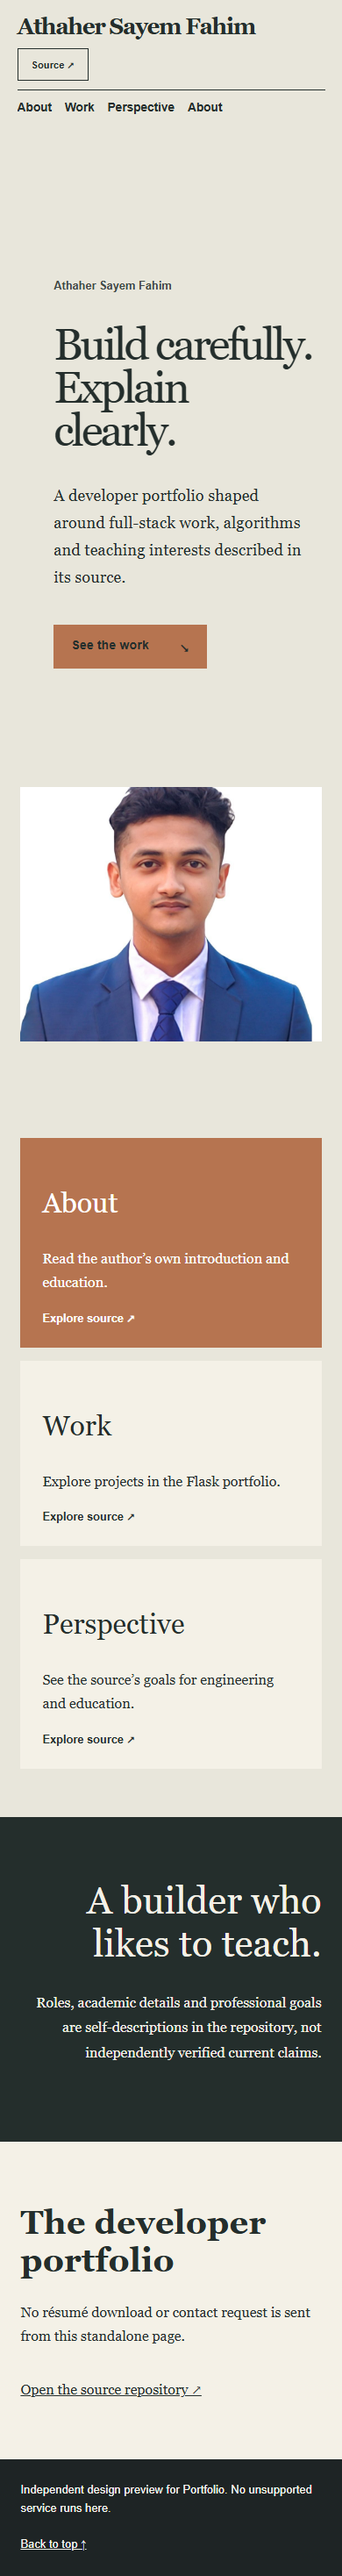
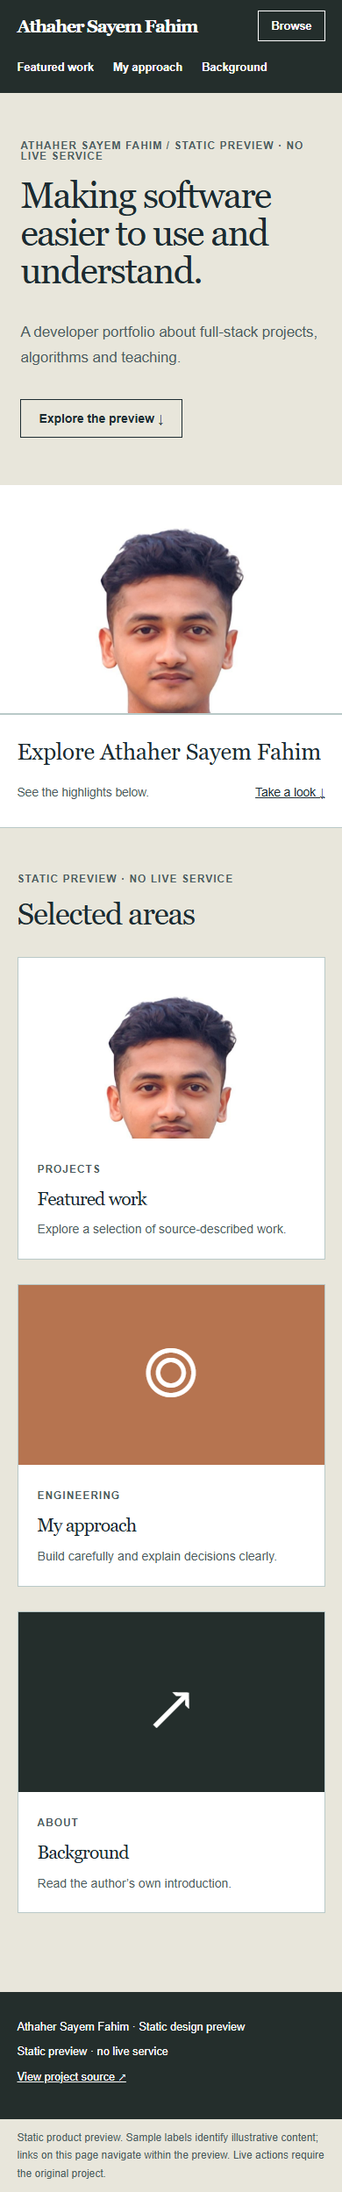
feat: show product-first static homepage preview

diff --git a/showcase-design/product.css b/showcase-design/product.css
@@ -1,0 +1,27 @@
+:root{--p-bg:#e8e6db;--p-ink:#1c2b31;--p-accent:#b67450;--p-card:#ffffff;--p-muted:#4c5c61;--p-border:#b9c9c8;--p-head:#242e2c;--p-head-ink:#ffffff;}
+
+/* Product-first preview. Preserve the original design's palette and assets. */
+body.product-page{background:var(--p-bg);color:var(--p-ink);font-family:Arial,'Segoe UI',sans-serif;line-height:1.5;margin:0}
+.product-page *{box-sizing:border-box}.product-page a{color:inherit}.product-page a:focus-visible{outline:3px solid var(--p-accent);outline-offset:4px}.product-page h1,.product-page h2,.product-page h3{overflow-wrap:anywhere;letter-spacing:-.035em}.product-page p{max-width:68ch}
+.p-skip{position:absolute;top:-90px;left:12px;background:var(--p-card);padding:10px;z-index:10}.p-skip:focus{top:10px}
+.p-nav{min-height:76px;display:flex;align-items:center;gap:24px;padding:12px 5%;background:var(--p-head);color:var(--p-head-ink)}
+.p-brand{text-decoration:none;font:bold clamp(1.25rem,2vw,1.9rem)/1.1 Georgia,serif;letter-spacing:-.06em;flex:0 0 auto}
+.p-nav nav{display:flex;gap:22px;margin-left:auto;overflow-x:auto;scrollbar-width:thin}.p-nav nav a,.p-nav-extra{font:600 .8rem Arial,sans-serif;text-decoration:none;white-space:nowrap}.p-nav nav a:hover,.p-nav-extra:hover{text-decoration:underline;text-underline-offset:4px}.p-nav-extra{border:1px solid currentColor;padding:9px 14px}
+.p-heading{display:grid;grid-template-columns:1.2fr .8fr;min-height:470px;align-items:stretch;border-bottom:1px solid var(--p-border)}.p-copy{padding:72px 7% 64px 9%;display:flex;flex-direction:column;justify-content:center}.p-overline,.p-item small,.p-section-title small,.p-work-head small,.p-newspaper .p-edition{font:700 .72rem Arial,sans-serif;text-transform:uppercase;letter-spacing:.11em;color:var(--p-muted)}
+.p-heading h1{font:normal clamp(3rem,5vw,5.6rem)/1.03 Georgia,serif;margin:18px 0}.p-copy>p{font-size:1.05rem;color:var(--p-muted);line-height:1.7}.p-action{align-self:flex-start;padding:13px 20px;border:1px solid var(--p-ink);text-decoration:none;margin-top:16px;font:700 .87rem Arial,sans-serif}.p-action:hover{background:var(--p-head);color:var(--p-head-ink)}
+.p-hero-image,.p-hero-graphic{min-height:340px;background:var(--p-head);display:grid;place-items:center;overflow:hidden}.p-hero-image img{width:100%;height:100%;max-height:560px;object-fit:cover}.p-hero-graphic span{color:var(--p-accent);font:normal clamp(11rem,25vw,27rem)/1 Georgia,serif}
+.p-newspaper{text-align:center;padding:34px 5% 25px;border-block:3px double var(--p-border)}.p-newspaper h1{font:normal clamp(3.5rem,8vw,8rem)/1 Georgia,serif;margin:14px 0;letter-spacing:-.06em}.p-newspaper p{margin:auto;color:var(--p-muted)}
+.p-front{display:grid;grid-template-columns:1.65fr .8fr;margin:36px 5%;border-block:1px solid var(--p-border)}.p-lead{padding:38px 5% 42px 0;border-right:1px solid var(--p-border)}.p-lead h2{font:normal clamp(2.8rem,5vw,5.5rem)/1.07 Georgia,serif;max-width:14ch;margin:20px 0}.p-lead p{color:var(--p-muted)}.p-front aside{padding:30px 0 25px 8%}.p-front aside>b{font-size:1rem}.p-front aside a{display:flex;gap:20px;padding:20px 0;border-bottom:1px solid var(--p-border);text-decoration:none}.p-front aside span{font-size:.8rem;color:var(--p-muted)}
+.p-shopbar{display:flex;justify-content:space-between;align-items:center;gap:22px;flex-wrap:wrap;padding:28px 5%;background:var(--p-card);border-block:1px solid var(--p-border)}.p-shopbar b{font:normal 1.6rem Georgia,serif}.p-shopbar span{font-size:.85rem;color:var(--p-muted)}.p-shopbar a{font-size:.85rem}
+.p-workspace{margin:42px 5% 30px;padding:30px;background:var(--p-card);border:1px solid var(--p-border)}.p-work-head{display:flex;justify-content:space-between;align-items:center;gap:20px}.p-work-head h2{font:normal clamp(1.7rem,3vw,2.8rem) Georgia,serif;margin:8px 0 25px}.p-chip{font-size:.72rem;padding:7px 10px;border:1px solid var(--p-border);border-radius:20px}.p-steps{display:grid;grid-template-columns:repeat(3,minmax(0,1fr));border:1px solid var(--p-border)}.p-steps a{padding:26px;border-right:1px solid var(--p-border);text-decoration:none;display:grid;gap:9px}.p-steps a:last-child{border-right:0}.p-steps a:hover{background:var(--p-bg)}.p-steps a>span{font-size:.75rem;color:var(--p-muted)}.p-steps a>b{font-size:1.2rem}.p-steps a>small{color:var(--p-muted)}.p-preview{margin-top:22px;min-height:116px;display:flex;align-items:center;gap:26px;padding:22px;background:var(--p-bg);border:1px dashed var(--p-border)}.p-preview-mark{font:2.3rem Consolas,monospace;color:var(--p-accent)}.p-preview p{margin:5px 0 0;color:var(--p-muted);font-size:.85rem}
+.p-collection{padding:64px 5% 90px}.p-section-title{display:flex;justify-content:space-between;gap:25px;align-items:end;margin-bottom:30px}.p-section-title h2{font:normal clamp(2rem,4vw,4rem)/1.1 Georgia,serif;margin:10px 0 0}.p-section-title p{font-size:.8rem;color:var(--p-muted);max-width:23rem;margin:0}.p-grid{display:grid;grid-template-columns:repeat(3,minmax(0,1fr));gap:18px}.p-item{border:1px solid var(--p-border);background:var(--p-card);min-width:0}.p-image{aspect-ratio:1.7;overflow:hidden;display:grid;place-items:center;background:var(--p-head)}.p-image img{width:100%;height:100%;object-fit:cover}.p-image>span{font:normal 5rem Georgia,serif;color:var(--p-accent)}.p-item:nth-child(2) .p-image{background:var(--p-accent)}.p-item:nth-child(2) .p-image span{color:var(--p-head)}.p-item-info{padding:22px}.p-item h3{font:normal clamp(1.3rem,2.2vw,2rem)/1.1 Georgia,serif;margin:12px 0}.p-item p{font-size:.88rem;color:var(--p-muted);line-height:1.6;margin:0}
+.product-news .p-grid,.product-news_bn .p-grid{grid-template-columns:1.3fr 1fr 1fr}.product-news .p-image,.product-news_bn .p-image{aspect-ratio:2.3;background:var(--p-head)}.product-news .p-item,.product-news_bn .p-item{border-width:0 0 1px 0;background:transparent}.product-news .p-item-info,.product-news_bn .p-item-info{padding-left:0}
+.product-store .p-image,.product-commerce .p-image{aspect-ratio:1.1}.product-events .p-item{border-top:4px solid var(--p-accent)}.product-game .p-image,.product-compiler .p-image,.product-notebook .p-image{background:var(--p-head);aspect-ratio:2.4}.product-portfolio .p-grid,.product-architecture .p-grid{gap:28px}.product-empty .p-collection{min-height:470px}
+.p-app-intro{padding:35px 5% 12px}.p-app-intro span{font:700 .7rem Arial,sans-serif;letter-spacing:.1em;text-transform:uppercase;color:var(--p-muted)}.p-app-intro h1{font:normal clamp(2rem,3.5vw,3.6rem)/1.12 Georgia,serif;margin:12px 0 8px}.p-app-intro p{font-size:.9rem;color:var(--p-muted);margin:0}.p-app-intro+.p-workspace{margin-top:14px}.p-story-label{display:inline-block;margin-top:20px;font-size:.8rem;border-top:1px solid var(--p-border);padding-top:12px}
+.product-events .p-heading,.product-store .p-heading,.product-commerce .p-heading{min-height:320px;grid-template-columns:1.25fr .75fr}.product-events .p-copy,.product-store .p-copy,.product-commerce .p-copy{padding-block:38px}.product-events .p-heading h1,.product-store .p-heading h1,.product-commerce .p-heading h1{font-size:clamp(2.7rem,4vw,4.7rem)}
+.p-image>span{color:var(--p-head-ink)}.p-item:nth-child(2) .p-image span{color:var(--p-head-ink)}.product-news .p-grid,.product-news_bn .p-grid{grid-template-columns:1fr 1fr}.product-news .p-item,.product-news_bn .p-item{border-width:1px 0 0 0;background:transparent}.product-news .p-item-info,.product-news_bn .p-item-info{padding:24px 0}.product-news .p-item h3,.product-news_bn .p-item h3{font-size:clamp(1.7rem,3vw,3rem)}
+.p-brand,.p-heading h1,.p-app-intro h1,.p-newspaper h1,.p-lead h2,.p-work-head h2,.p-section-title h2,.p-item h3{font-family:var(--display,var(--serif,var(--font,Georgia,serif)))}
+.p-footer{padding:30px 5%;display:flex;justify-content:space-between;flex-wrap:wrap;gap:16px;background:var(--p-head);color:var(--p-head-ink);font-size:.8rem}.p-footer a{color:inherit}.p-disclosure{max-width:none!important;padding:11px 5%;margin:0;font-size:.75rem;background:var(--p-bg);color:var(--p-muted)}
+@media(max-width:800px){.p-nav{flex-wrap:wrap;gap:12px}.p-nav nav{order:3;width:100%;padding:10px 0;margin-left:0}.p-nav-extra{margin-left:auto}.p-heading{display:block;min-height:0}.p-copy{padding:54px 6%}.p-heading h1{font-size:clamp(2.6rem,9vw,5rem)}.p-hero-image,.p-hero-graphic{height:260px;min-height:260px}.p-hero-graphic span{font-size:13rem}.p-front{display:block}.p-lead{border-right:0;border-bottom:1px solid var(--p-border)}.p-front aside{padding:25px 0}.p-grid{grid-template-columns:repeat(2,minmax(0,1fr))!important}.p-steps{grid-template-columns:1fr}.p-steps a{border-bottom:1px solid var(--p-border);border-right:0!important}.p-steps a:last-child{border-bottom:0}.p-section-title{display:block}.p-section-title p{margin-top:15px}.p-workspace{padding:20px}}
+@media(max-width:550px){.p-grid{grid-template-columns:1fr!important}.p-collection{padding-top:45px}.p-section-title h2{font-size:2.2rem}.p-work-head{align-items:flex-start}.p-chip{max-width:115px;text-align:center}.p-front{margin-top:18px}.p-newspaper h1{font-size:3rem}.p-footer{display:block}.p-footer>*{display:block;margin-bottom:9px}}
+@media(prefers-reduced-motion:reduce){html{scroll-behavior:auto}}

diff --git a/showcase-design/index.html b/showcase-design/index.html
@@ -1,1 +1,1 @@
-<!doctype html><html lang="en"><head><meta charset="utf-8"><meta name="viewport" content="width=device-width,initial-scale=1"><meta name="description" content="A developer portfolio shaped around full-stack work, algorithms and teaching interests described in its source."><title>Athaher Sayem Fahim — Build carefully. Explain clearly.</title><link rel="stylesheet" href="styles.css"></head><body><a class="skip" href="#main">Skip to content</a><header class="mast" id="top"><a class="brand" href="#top">Athaher Sayem Fahim</a><nav aria-label="Main navigation"><a href="#topic-0">About</a><a href="#topic-1">Work</a><a href="#topic-2">Perspective</a><a href="#about">About</a></nav><a class="top-action" href="https://github.com/Athaher-Sayem/Portfolio/tree/Shocase_design" target="_blank" rel="noopener noreferrer">Source ↗</a></header><main id="main"><section class="hero"><div class="hero-copy"><span class="intro-tag">Athaher Sayem Fahim</span><h1>Build carefully. Explain clearly.</h1><p>A developer portfolio shaped around full-stack work, algorithms and teaching interests described in its source.</p><a class="cta" href="#browse">See the work <span aria-hidden="true">↘</span></a></div><div class="hero-art" aria-label="Source image"><img src="assets/feature.jpg" alt="Illustration or photograph from the original Portfolio repository"></div></section><section id="browse" class="topics" aria-label="Explore topics"><a id="topic-0" href="https://github.com/Athaher-Sayem/Portfolio/blob/Shocase_design/app.py" target="_blank" rel="noopener noreferrer"><h3>About</h3><p>Read the author’s own introduction and education.</p><span>Explore source ↗</span></a><a id="topic-1" href="https://github.com/Athaher-Sayem/Portfolio/blob/Shocase_design/app.py" target="_blank" rel="noopener noreferrer"><h3>Work</h3><p>Explore projects in the Flask portfolio.</p><span>Explore source ↗</span></a><a id="topic-2" href="https://github.com/Athaher-Sayem/Portfolio/blob/Shocase_design/app.py" target="_blank" rel="noopener noreferrer"><h3>Perspective</h3><p>See the source’s goals for engineering and education.</p><span>Explore source ↗</span></a></section><section id="about" class="feature"><h2>A builder who likes to teach.</h2><p>Roles, academic details and professional goals are self-descriptions in the repository, not independently verified current claims.</p></section><section class="source"><h2>The developer portfolio</h2><p>No résumé download or contact request is sent from this standalone page.</p><a href="https://github.com/Athaher-Sayem/Portfolio/tree/Shocase_design" target="_blank" rel="noopener noreferrer">Open the source repository ↗</a></section></main><footer class="footer"><span>Independent design preview for Portfolio. No unsupported service runs here.</span><a href="#top">Back to top ↑</a></footer></body></html>
+<!doctype html><html lang="en"><head><meta charset="utf-8"><meta name="viewport" content="width=device-width,initial-scale=1"><meta name="description" content="A developer portfolio about full-stack projects, algorithms and teaching."><title>Athaher Sayem Fahim — Making software easier to use and understand.</title><link rel="stylesheet" href="styles.css"><link rel="stylesheet" href="product.css"></head><body class="product-page product-portfolio"><a class="p-skip" href="#main">Skip to content</a><header class="p-nav"><a class="p-brand" href="#home">Athaher Sayem Fahim</a><nav aria-label="Sections"><a href="#item-0">Featured work</a><a href="#item-1">My approach</a><a href="#item-2">Background</a></nav><a class="p-nav-extra" href="#items">Browse</a></header><main id="main"><section class="p-heading" id="home"><div class="p-copy"><span class="p-overline">Athaher Sayem Fahim / Static preview · no live service</span><h1>Making software easier to use and understand.</h1><p>A developer portfolio about full-stack projects, algorithms and teaching.</p><a class="p-action" href="#items">Explore the preview <span aria-hidden="true">↓</span></a></div><div class="p-hero-image"><img src="assets/feature.jpg" alt="Project image from the original repository"></div></section><div id="workspace"><section class="p-shopbar"><b>Explore Athaher Sayem Fahim</b><span>See the highlights below.</span><a href="#items">Take a look ↓</a></section></div><section id="items" class="p-collection"><div class="p-section-title"><div><small>Static preview · no live service</small><h2>Selected areas</h2></div></div><div class="p-grid portfolio"><article class="p-item" id="item-0"><div class="p-image portfolio"><img loading="lazy" src="assets/feature.jpg" alt="Image from the original project"></div><div class="p-item-info"><small>Projects</small><h3>Featured work</h3><p>Explore a selection of source-described work.</p></div></article><article class="p-item" id="item-1"><div class="p-image portfolio"><span aria-hidden="true">◎</span></div><div class="p-item-info"><small>Engineering</small><h3>My approach</h3><p>Build carefully and explain decisions clearly.</p></div></article><article class="p-item" id="item-2"><div class="p-image portfolio"><span aria-hidden="true">↗</span></div><div class="p-item-info"><small>About</small><h3>Background</h3><p>Read the author’s own introduction.</p></div></article></div></section></main><footer class="p-footer"><span>Athaher Sayem Fahim · Static design preview</span><span>Static preview · no live service</span><a href="https://github.com/Athaher-Sayem/Portfolio/tree/Shocase_design" target="_blank" rel="noopener noreferrer">View project source ↗</a></footer><p class="p-disclosure">Static product preview. Sample labels identify illustrative content; links on this page navigate within the preview. Live actions require the original project.</p></body></html>
